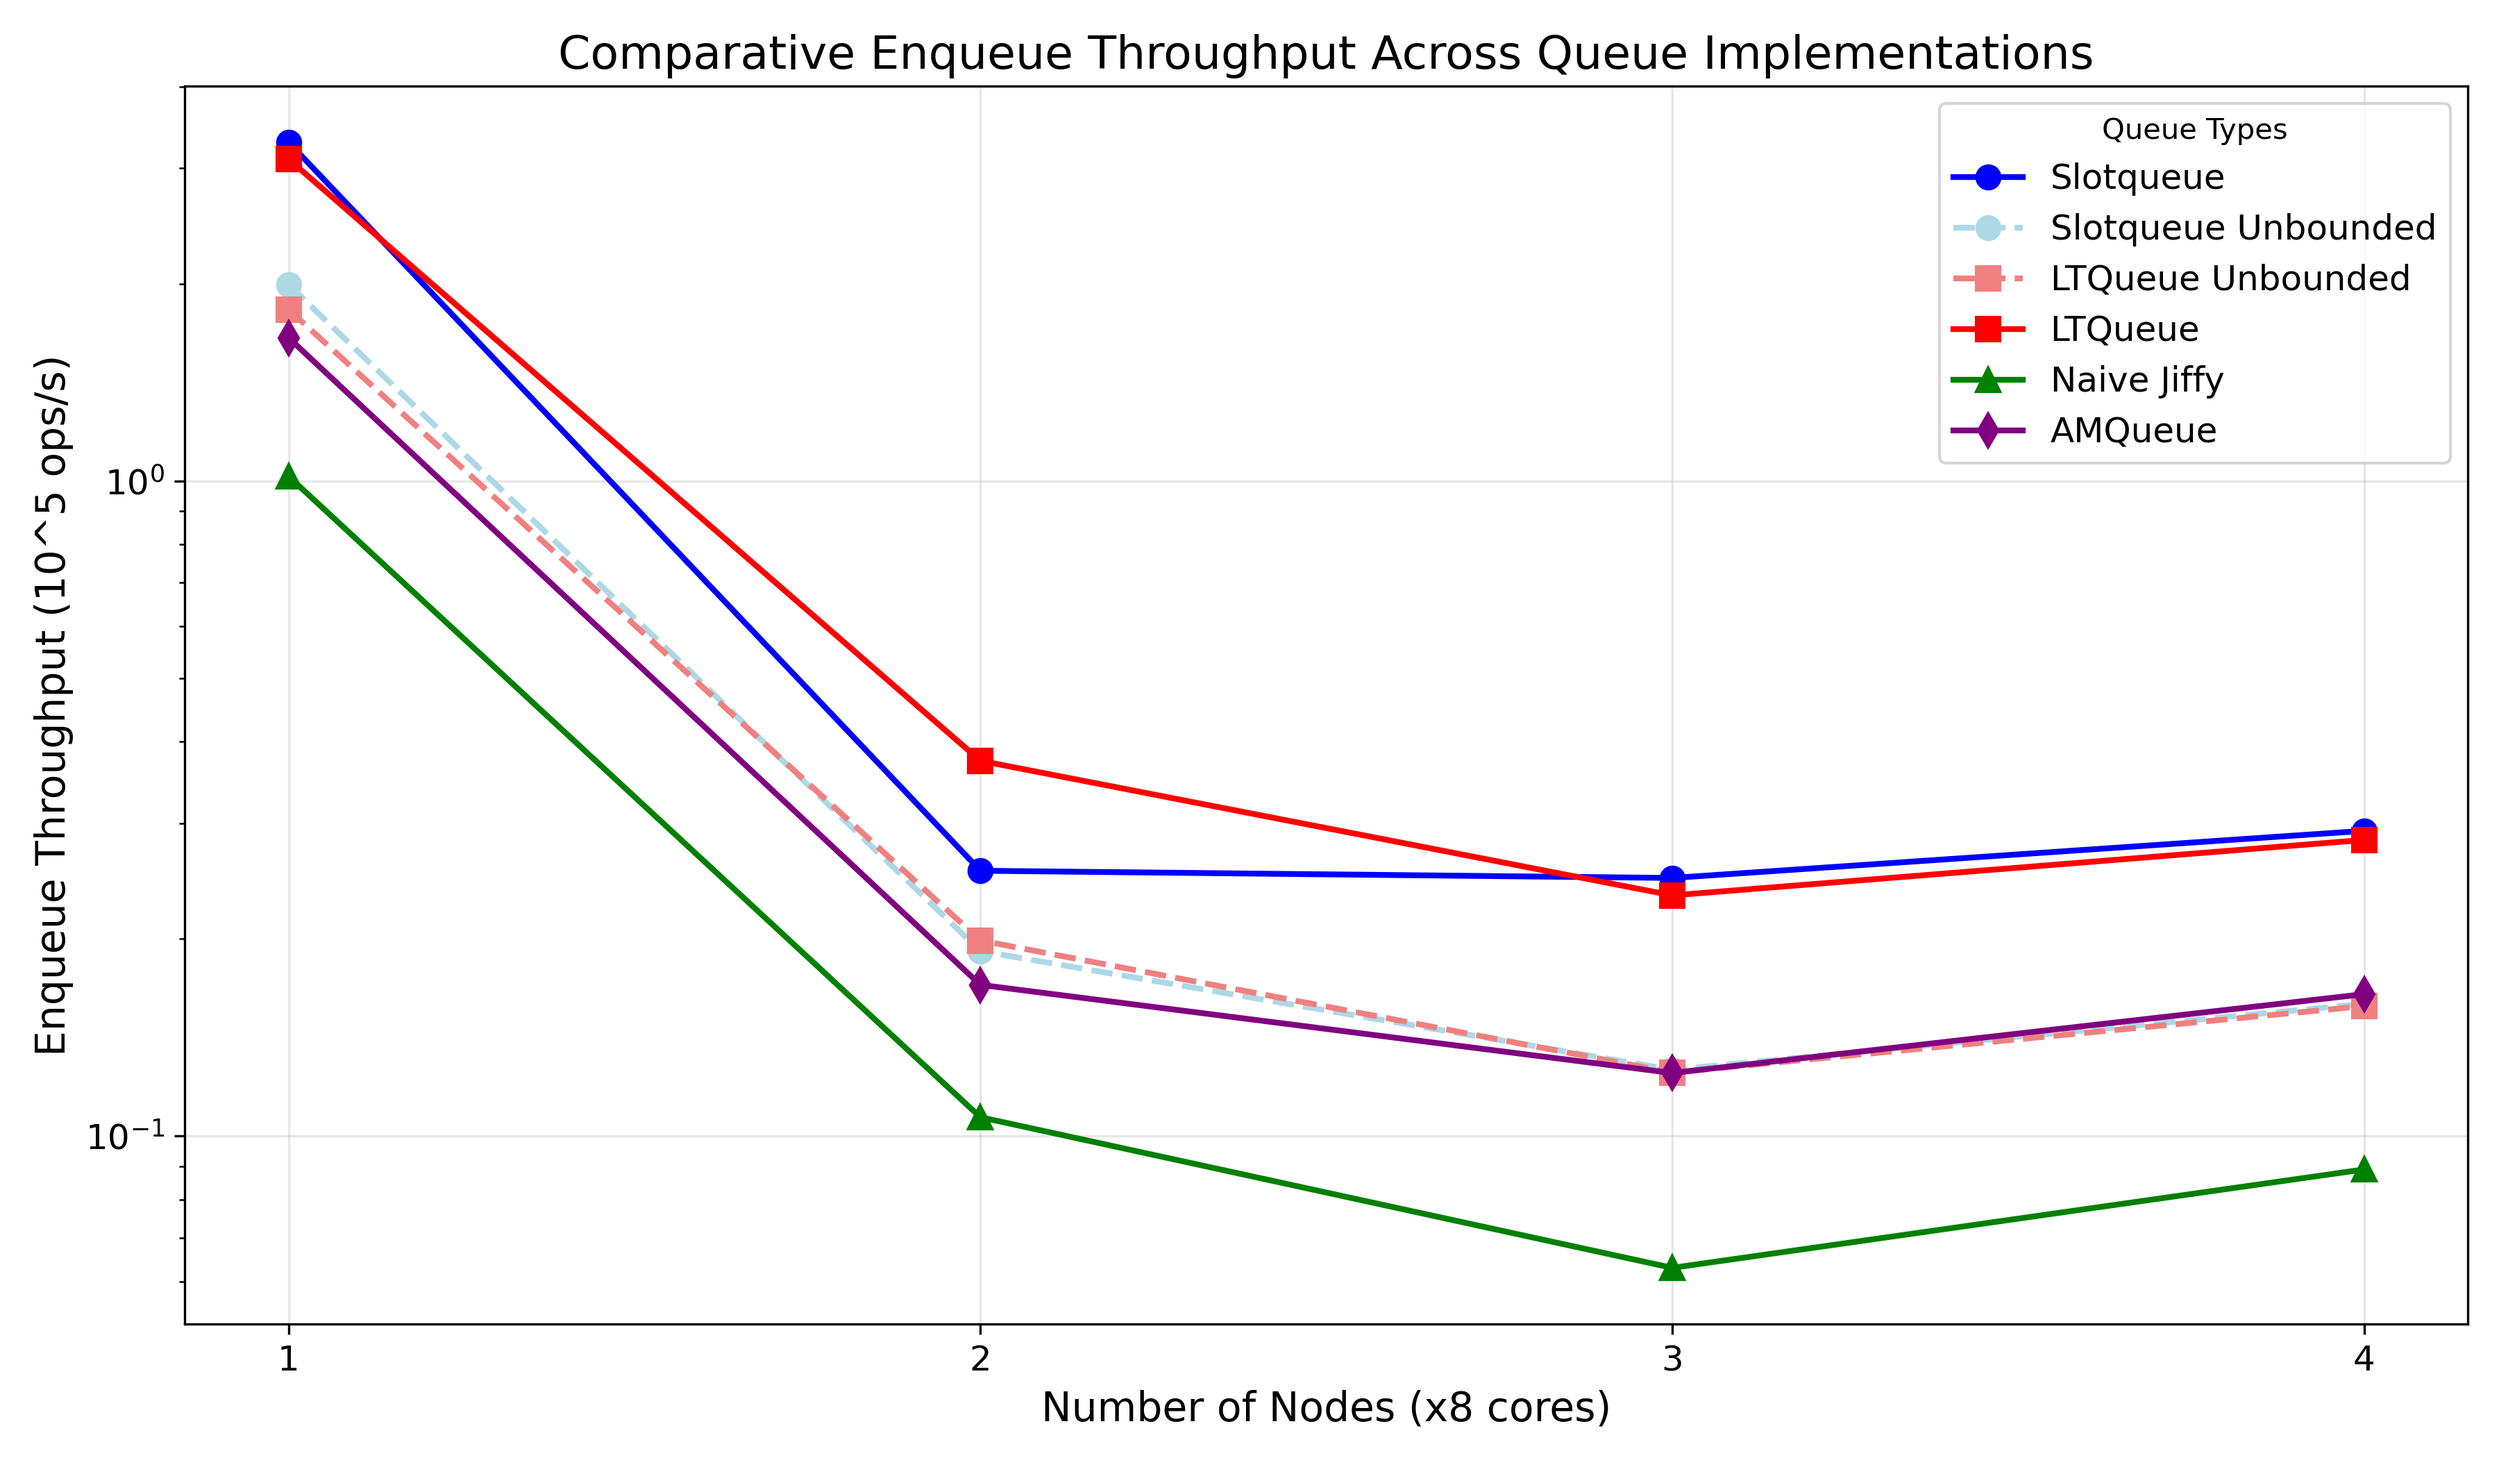
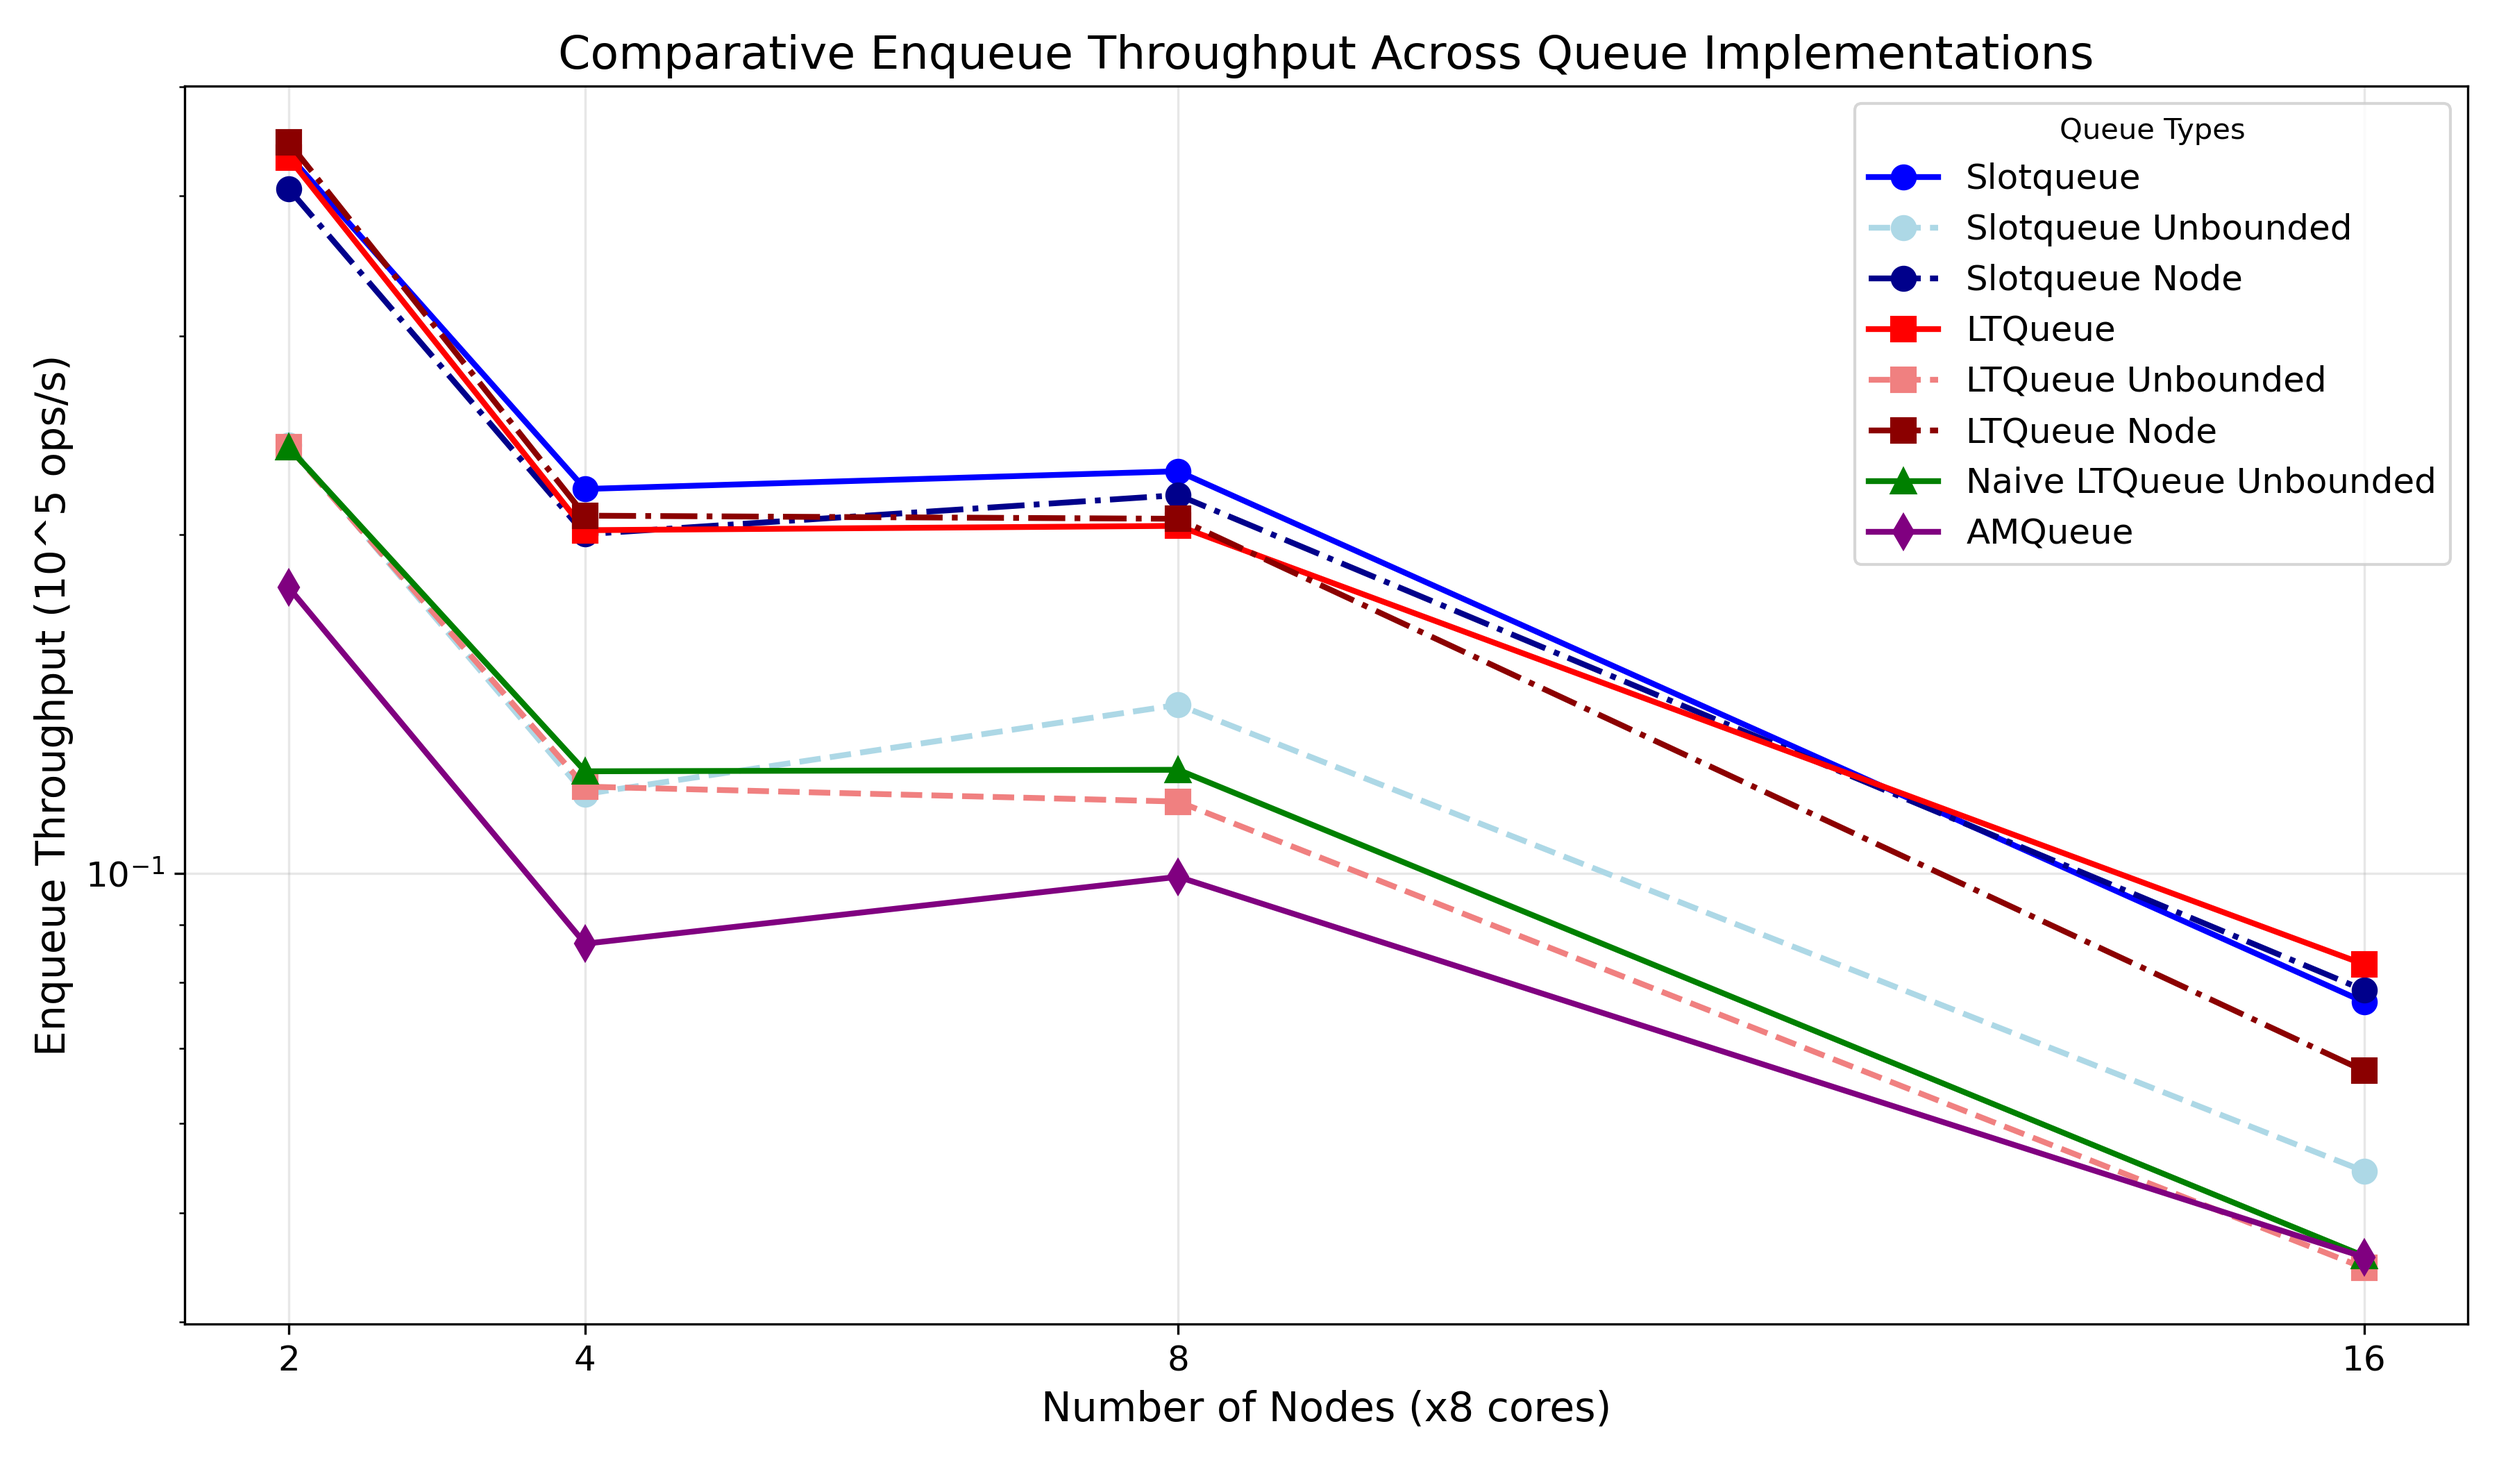
fix(via): update

diff --git a/viz/microbenchmarks/single-one-queue/non-rdma-cluster/by-nodes.py b/viz/microbenchmarks/single-one-queue/non-rdma-cluster/by-nodes.py
@@ -4,50 +4,64 @@ import os
 output_dir = "non-rdma-cluster/all/by-nodes"
 os.makedirs(output_dir, exist_ok=True)
 
-nodes = [1, 2, 3, 4]
+nodes = [2, 4, 8, 16]
 
 queue_data = {
     "Slotqueue": {
-        "dequeue_throughput": [1.11673, 0.13496, 0.126999, 0.125209],
-        "dequeue_latency": [8.95474, 74.0962, 78.7411, 79.8664],
-        "enqueue_throughput": [3.28671, 0.25411, 0.24775, 0.292371],
-        "enqueue_latency": [21.2979, 590.295, 928.355, 1060.3],
-        "total_throughput": [2.23379, 0.269987, 0.254061, 0.250581],
+        "dequeue_throughput": [0.123338, 0.0886871, 0.0859344, 0.0321722],
+        "dequeue_latency": [81.0777, 112.756, 116.368, 310.827],
+        "enqueue_throughput": [0.434409, 0.219555, 0.227658, 0.0769318],
+        "enqueue_latency": [345.297, 1411.95, 2767.31, 14428.4],
+        "total_throughput": [0.246739, 0.17749, 0.172015, 0.0646694],
     },
     "Slotqueue Unbounded": {
-        "dequeue_throughput": [0.560249, 0.0295915, 0.0217562, 0.0203315],
-        "dequeue_latency": [17.8492, 337.935, 459.64, 491.848],
-        "enqueue_throughput": [1.99281, 0.191586, 0.126274, 0.159169],
-        "enqueue_latency": [35.1263, 782.938, 1821.43, 1947.61],
-        "total_throughput": [1.12067, 0.0591978, 0.0435232, 0.0406894],
+        "dequeue_throughput": [0.0329554, 0.0245775, 0.022118, 0.0114818],
+        "dequeue_latency": [303.44, 406.876, 452.121, 870.941],
+        "enqueue_throughput": [0.240112, 0.117672, 0.141216, 0.0544276],
+        "enqueue_latency": [624.708, 2634.43, 4461.26, 20394.1],
+        "total_throughput": [0.0659273, 0.049187, 0.0442736, 0.0230796],
     },
-    "LTQueue Unbounded": {
-        "dequeue_throughput": [0.396487, 0.0259934, 0.0190773, 0.0172865],
-        "dequeue_latency": [25.2215, 384.713, 524.184, 578.485],
-        "enqueue_throughput": [1.82603, 0.198867, 0.125013, 0.15791],
-        "enqueue_latency": [38.3345, 754.272, 1839.81, 1963.15],
-        "total_throughput": [0.793093, 0.0519998, 0.0381641, 0.0345956],
+    "Slotqueue Node": {
+        "dequeue_throughput": [0.119177, 0.0859209, 0.0850357, 0.032532],
+        "dequeue_latency": [83.9089, 116.386, 117.598, 307.389],
+        "enqueue_throughput": [0.40559, 0.200152, 0.216819, 0.0788124],
+        "enqueue_latency": [369.832, 1548.83, 2905.65, 14084.1],
+        "total_throughput": [0.238413, 0.171953, 0.170216, 0.0653927],
     },
     "LTQueue": {
-        "dequeue_throughput": [0.641118, 0.0943043, 0.067812, 0.0596622],
-        "dequeue_latency": [15.5978, 106.04, 147.467, 167.61],
-        "enqueue_throughput": [3.09808, 0.373965, 0.233022, 0.283175],
-        "enqueue_latency": [22.5946, 401.107, 987.033, 1094.73],
-        "total_throughput": [1.28243, 0.188656, 0.135658, 0.119402],
+        "dequeue_throughput": [0.0747161, 0.0555336, 0.0531371, 0.0307168],
+        "dequeue_latency": [133.84, 180.071, 188.192, 325.555],
+        "enqueue_throughput": [0.432206, 0.201807, 0.2036, 0.0830857],
+        "enqueue_latency": [347.057, 1536.12, 3094.3, 13359.7],
+        "total_throughput": [0.14947, 0.111139, 0.106365, 0.0617439],
     },
-    "Naive Jiffy": {
-        "dequeue_throughput": [0.631239, 0.0425949, 0.0291597, 0.0438869],
-        "dequeue_latency": [15.8419, 234.77, 342.939, 227.858],
-        "enqueue_throughput": [1.01611, 0.106855, 0.0629367, 0.0889347],
-        "enqueue_latency": [68.89, 1403.77, 3654.47, 3485.7],
-        "total_throughput": [1.26267, 0.085211, 0.058334, 0.0878308],
+    "LTQueue Unbounded": {
+        "dequeue_throughput": [0.0285561, 0.020949, 0.0185049, 0.00861195],
+        "dequeue_latency": [350.188, 477.349, 540.396, 1161.18],
+        "enqueue_throughput": [0.239198, 0.119468, 0.115864, 0.0446594],
+        "enqueue_latency": [627.094, 2594.83, 5437.43, 24854.8],
+        "total_throughput": [0.0571265, 0.0419253, 0.0370413, 0.0173109],
+    },
+    "LTQueue Node": {
+        "dequeue_throughput": [0.0751723, 0.0556122, 0.0535708, 0.0244206],
+        "dequeue_latency": [133.028, 179.817, 186.669, 409.49],
+        "enqueue_throughput": [0.445996, 0.207893, 0.206572, 0.0668192],
+        "enqueue_latency": [336.326, 1491.15, 3049.79, 16612],
+        "total_throughput": [0.150382, 0.111297, 0.107233, 0.0490879],
+    },
+    "Naive LTQueue Unbounded": {
+        "dequeue_throughput": [0.00961319, 0.00595729, 0.00459748, 0.00217857],
+        "dequeue_latency": [1040.24, 1678.62, 2175.11, 4590.16],
+        "enqueue_throughput": [0.239012, 0.123267, 0.123647, 0.0457509],
+        "enqueue_latency": [627.583, 2514.87, 5095.16, 24261.8],
+        "total_throughput": [0.0192312, 0.0119223, 0.00920277, 0.00437915],
     },
     "AMQueue": {
-        "dequeue_throughput": [1.55844, 0.114101, 0.120557, 0.1624],
-        "dequeue_latency": [6.41668, 87.6415, 82.9484, 61.5762],
-        "enqueue_throughput": [1.65324, 0.170142, 0.12482, 0.164671],
-        "enqueue_latency": [42.3411, 881.615, 1842.65, 1882.54],
-        "total_throughput": [3.10339, 0.222947, 0.237143, 0.317361],
+        "dequeue_throughput": [0.0924691, 0.0642197, 0.0888117, 0.0443103],
+        "dequeue_latency": [108.144, 155.716, 112.598, 225.681],
+        "enqueue_throughput": [0.179493, 0.0866457, 0.0993492, 0.045654],
+        "enqueue_latency": [835.686, 3577.79, 6341.27, 24313.3],
+        "total_throughput": [0.183541, 0.127049, 0.173112, 0.0841107],
     },
 }
 
@@ -70,9 +84,11 @@ metric_labels = {
 queue_styles = {
     "Slotqueue": {"color": "blue", "marker": "o"},
     "Slotqueue Unbounded": {"color": "lightblue", "marker": "o", "linestyle": "--"},
-    "LTQueue Unbounded": {"color": "lightcoral", "marker": "s", "linestyle": "--"},
+    "Slotqueue Node": {"color": "darkblue", "marker": "o", "linestyle": "-."},
     "LTQueue": {"color": "red", "marker": "s"},
-    "Naive Jiffy": {"color": "green", "marker": "^"},
+    "LTQueue Unbounded": {"color": "lightcoral", "marker": "s", "linestyle": "--"},
+    "LTQueue Node": {"color": "darkred", "marker": "s", "linestyle": "-."},
+    "Naive LTQueue Unbounded": {"color": "green", "marker": "^"},
     "AMQueue": {"color": "purple", "marker": "d"},
 }
 
@@ -112,3 +128,4 @@ for metric in metrics:
 print(
     "All comparative plots have been generated in the 'non-rdma-cluster/all/by-nodes' folder."
 )
+
